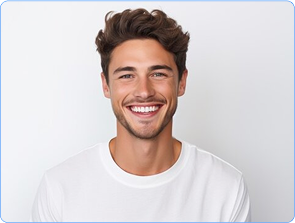
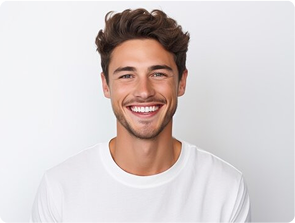
update index.html file and theme.js, add some images and date picker package

Changed region(s): [[0.0, 0.0, 1.0, 1.0]]

diff --git a/src/theme.js b/src/theme.js
@@ -4,7 +4,9 @@ const breakpoints = {
   values: {
     xs: 0,
     sm: 600,
+    smLarge: 680,
     md: 900,
+    mdS: 1000,
     mdLarge: 1025,
     lg: 1200,
     xl: 1536,
@@ -229,21 +231,14 @@ const components = {
       notchedOutline: {
         borderColor: "#D0D5DD",
       },
-      root: {
-        "&:hover .MuiOutlinedInput-notchedOutline": {
-          borderColor: "#D0D5DD",
-        },
-        "&.Mui-focused .MuiOutlinedInput-notchedOutline": {
-          borderColor: "#D0D5DD",
-        },
-      },
     },
   },
 
   MuiPaper: {
     styleOverrides: {
       root: {
-        borderRadius: 12,
+        borderRadius: 8,
+        backgroundColor: '#FFFFFF',
       },
     },
   },

diff --git a/src/assets/images/svgs/index.js b/src/assets/images/svgs/index.js
@@ -22,7 +22,9 @@ import Employee from "./employee.svg";
 import EmployeeCard from "./employee-card.svg";
 import EmployeeActive from "./employee-active.svg";
 import EmployeeAbout from "./employee-about.svg";
+import EmployeeAboutDisabled from "./employee-about-disabled.svg";
 import EmployeeCompanyProfile from "./employee-company-profile.svg";
+import EmployeeCompanyProfilDisabled from "./employee-company-profile-disabled.svg";
 // Communication Icons
 import Email from "./email.svg";
 import Contact from "./contact.svg";
@@ -70,7 +72,9 @@ export {
   EmployeeCard,
   EmployeeActive,
   EmployeeAbout,
+  EmployeeAboutDisabled,
   EmployeeCompanyProfile,
+  EmployeeCompanyProfilDisabled,
   // Communication Icons
   Email,
   Contact,
@@ -91,5 +95,5 @@ export {
   Location,
   Logo,
   DashboardActive,
-  Dashboard
+  Dashboard,
 };

diff --git a/index.html b/index.html
@@ -2,9 +2,9 @@
 <html lang="en">
   <head>
     <meta charset="UTF-8" />
-    <link rel="icon" type="image/svg+xml" href="/vite.svg" />
+    <link rel="icon" type="image/svg+xml" href="/Logo.svg" />
     <meta name="viewport" content="width=device-width, initial-scale=1.0" />
-    <title>Vite + React</title>
+    <title>NFC Management</title>
   </head>
   <body>
     <div id="root"></div>